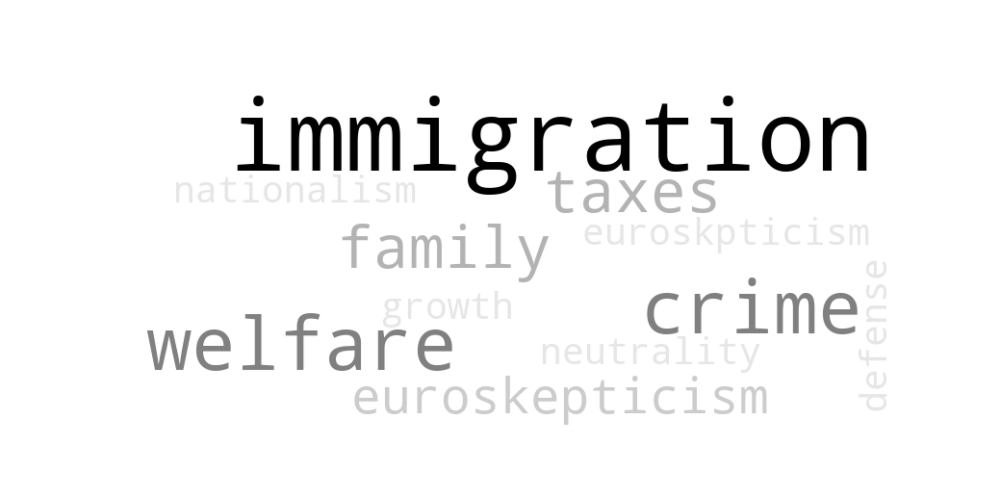
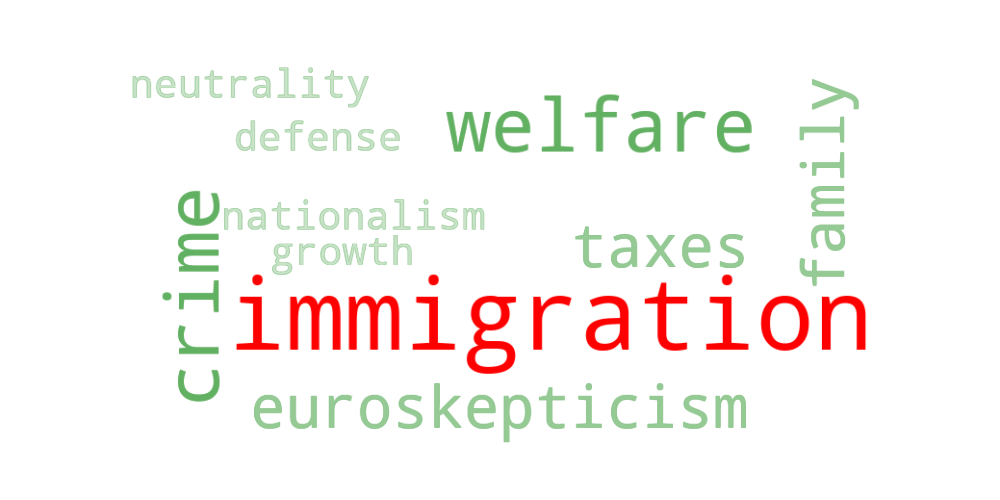
balck and white version

Changed region(s): [[0.124, 0.12, 0.899, 0.9], [0.868, 0.75, 0.899, 0.78]]

diff --git a/main.py b/main.py
@@ -54,12 +54,15 @@ for index, row in df.iterrows():
     counter += 1
     
     # Generate the word cloud with all words using the fixed layout
-    wordcloud = WordCloud(width=800, height=400, background_color='white', collocations=False, contour_color='black', contour_width=1, color_func=lambda *args, **kwargs: "gray").generate_from_frequencies(initial_wordcloud.words_)
+    wordcloud = WordCloud(width=800, height=400, background_color='white', collocations=False, random_state=None, contour_color='black', contour_width=1, color_func=lambda *args, **kwargs: "gray").generate_from_frequencies(initial_wordcloud.words_)
     wordcloud.layout_ = layout
     
     # Recolor the word cloud to shade words that occur more often in the cumulative list darker
     cumulative_word_freq = WordCloud().process_text(cumulative_words)
-    wordcloud = wordcloud.recolor(color_func=lambda word, font_size, position, orientation, random_state=None, **kwargs: f"rgb({255 - int(cumulative_word_freq.get(word, 0) * 255/10)}, {255 - int(cumulative_word_freq.get(word, 0) * 255/10)}, {255 - int(cumulative_word_freq.get(word, 0) * 255/10)})")
+    if counter != 11:
+        wordcloud = wordcloud.recolor(color_func=lambda word, font_size, position, orientation, random_state=None, **kwargs: f"rgb({0}, {255 - int(cumulative_word_freq.get(word, 0) * 255/10)}, {0})")
+    else:
+        wordcloud = wordcloud.recolor(color_func=lambda word, font_size, position, orientation, random_state=None, **kwargs: f"rgb({255 - (word != 'immigration')*int(cumulative_word_freq.get(word, 0) * 255/10)}, {255*(word != 'immigration') - (word != 'immigration')*int(cumulative_word_freq.get(word, 0) * 255/10)}, {255*(word != 'immigration') - (word != 'immigration')*int(cumulative_word_freq.get(word, 0) * 255/10)})")
     
     # Display the word cloud
     plt.figure(figsize=(10, 5))
